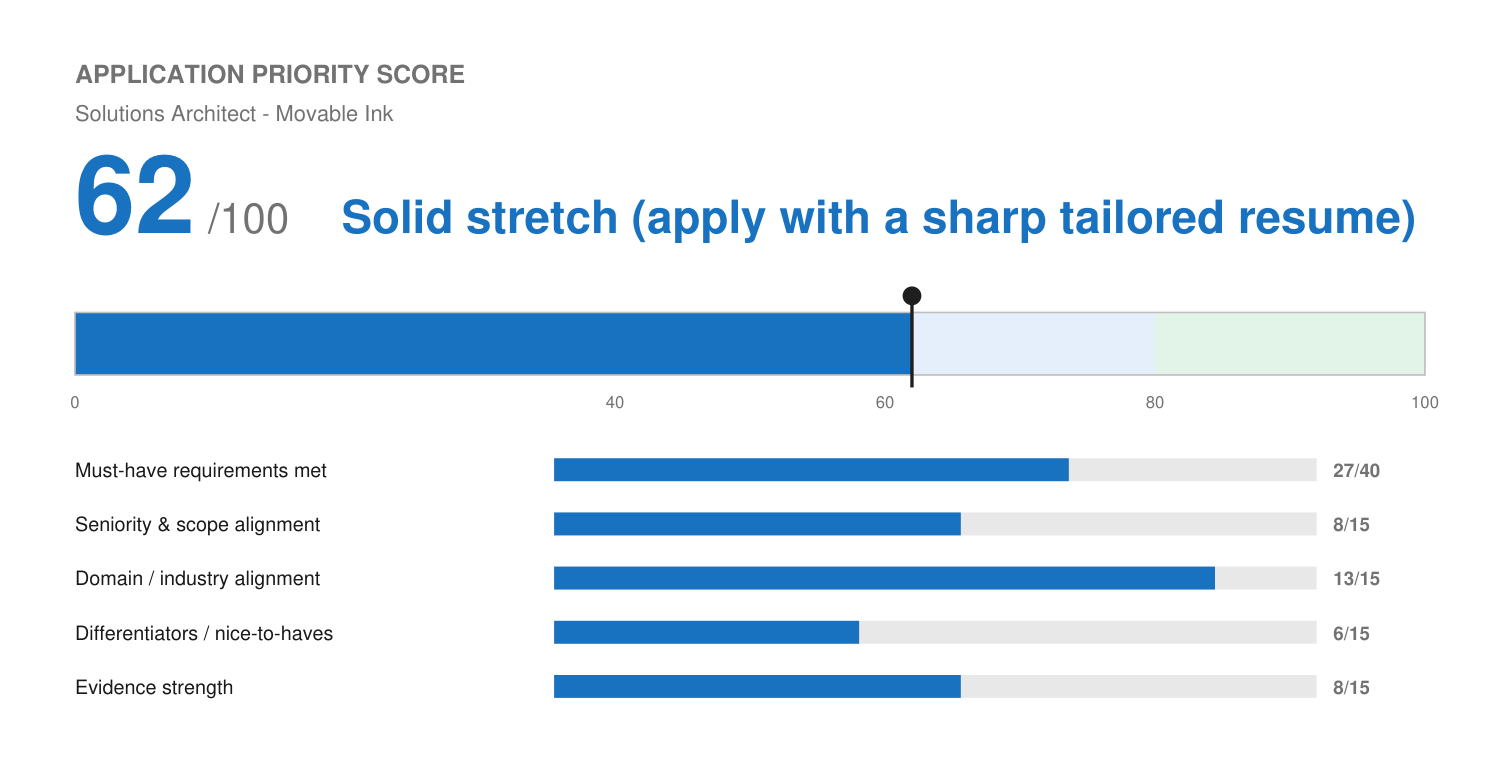
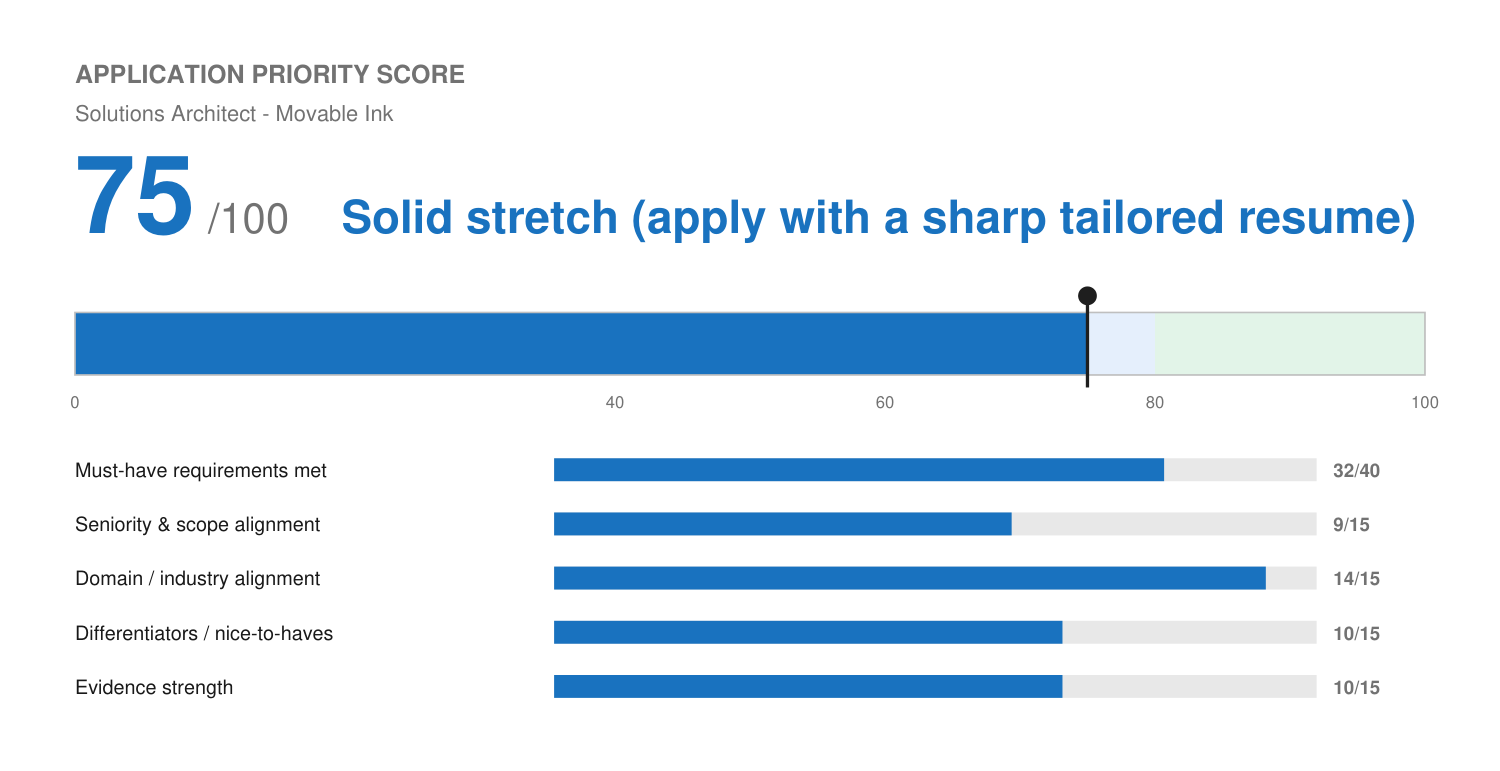
Rescore Movable Ink 62 -> 75 after confirming HTML/CSS and Marketo/Mailchimp
Josh confirmed real, hands-on HTML/CSS experience (own Solenzo site built
directly in HTML/CSS, GA4 tracking implementation on client sites) and ESP
experience with Marketo and Mailchimp. Updated resume, cover letter,
application answer, fit score, and match report accordingly. Score moved
from a Long-shot-adjacent 62 to a stronger Solid Stretch 75, still short of
80+ since JavaScript, formal data architectures, cloud data warehousing/ETL,
and the specific flagship ESPs this posting names most (Salesforce Marketing
Cloud, Braze, Iterable) remain real, unconfirmed gaps. Added HTML/CSS and
Marketo/Mailchimp as permanent master-profile facts.

Claude-Session: https://claude.ai/code/session_01WyTDmPmJhaMoZNuKsZg2t7

diff --git a/applications/movable-ink-solutions-architect/match-report.md b/applications/movable-ink-solutions-architect/match-report.md
@@ -14,8 +14,8 @@
 | :--- | :--- | :--- |
 | Remote - United States | Resume-evidenced — met | Josh is Colorado-based, remote |
 | Work authorization | Application-form requirement (needs Josh's input) | Not addressed in master profile; not raised as an issue |
-| Extensive experience with multiple enterprise ESPs (Salesforce Marketing Cloud, Braze, Iterable, Adobe Campaign, etc.) | Gap | Not in profile at all |
-| HTML, CSS, JavaScript, data architectures | Gap | No coding proficiency evidenced |
+| Extensive experience with multiple enterprise ESPs (Salesforce Marketing Cloud, Braze, Iterable, Adobe Campaign, etc.) | Resume-evidenced (partial) | Marketo (enterprise-tier) and Mailchimp (SMB-tier) confirmed hands-on; the specific big-name platforms listed (Salesforce Marketing Cloud, Braze, Iterable) are still not evidenced |
+| HTML, CSS, JavaScript, data architectures | Gap (partial) | HTML/CSS confirmed hands-on (own Solenzo site, client GA4 implementation); JavaScript and formal data-architecture experience still not evidenced |
 | 2+ years cloud data warehousing / data lakes / ETL | Gap | Not in profile |
 | 3+ years technical implementation/SA/TAM, preferably MarTech | Resume-evidenced (functional) | 15+ years; not literally titled "Solutions Architect" or "TAM" |
 | Compensation expectations | Needs candidate confirmation | Base $81K-$106K, OTE $97.3K-$127K; no target on file for this comp shape yet |
@@ -26,20 +26,22 @@ No hard knockout found. No score cap applied. The gaps below are real skill gaps
 
 ## Application Priority Score
 
-⚪ **62 / 100 — Solid stretch (apply with a sharp tailored resume)**
-`[████████████░░░░░░░░] 62%`
+⚪ **75 / 100 — Solid stretch (apply with a sharp tailored resume)**
+`[███████████████░░░░░] 75%`
 
 *Internal decision aid, not a prediction of Movable Ink's screening outcome.* See `fit.png`.
 
 | Dimension | Score | Max |
 | :--- | :---: | :---: |
-| Must-have requirements met | 27 | 40 |
-| Seniority & scope alignment | 8 | 15 |
-| Domain / industry alignment | 13 | 15 |
-| Differentiators / nice-to-haves | 6 | 15 |
-| Evidence strength | 8 | 15 |
+| Must-have requirements met | 32 | 40 |
+| Seniority & scope alignment | 9 | 15 |
+| Domain / industry alignment | 14 | 15 |
+| Differentiators / nice-to-haves | 10 | 15 |
+| Evidence strength | 10 | 15 |
 
-The honest shape of this one: domain alignment is genuinely strong, email/mobile marketing personalization and AI-driven decisioning is Josh's actual world. But the posting names three specific, checkable technical requirements he doesn't meet: enterprise ESP platform experience, HTML/CSS/JavaScript, and cloud data warehousing/ETL. Those pull Must-haves, Differentiators, and Evidence Strength down hard. This isn't a "framing" problem, it's a real skills gap, and the resume and cover letter name it directly rather than hope it goes unnoticed in a technical screen.
+**Rescored Sep 16, 2026 from 62 → 75** after Josh confirmed real HTML/CSS experience (his own Solenzo site is built directly in HTML/CSS, and he implements GA4 tracking in HTML/CSS on client sites) and hands-on ESP experience with Marketo and Mailchimp. This closes two of the three named technical gaps partially, HTML/CSS is now a genuine strength, and ESP experience is real though not in the specific flagship platforms (Salesforce Marketing Cloud, Braze, Iterable) this posting names most. JavaScript, formal data architectures, and cloud data warehousing/ETL remain true, unconfirmed gaps.
+
+Domain alignment stays the standout dimension: email/mobile marketing personalization and AI-driven decisioning is Josh's actual world, and Solenzo's digital-footprint scoring engine is close to a literal match for what Movable Ink sells.
 
 ---
 
@@ -49,10 +51,10 @@ The honest shape of this one: domain alignment is genuinely strong, email/mobile
 | :--- | :--- | :--- |
 | 3+ years technical implementation/SA/TAM, MarTech preferred | Strong (functional) | 15+ years across Accelo, Birdeye, Wix, Solenzo |
 | 3+ years consulting, influencing marketing strategy with technical solutions | Strong | Solenzo (fractional consulting), Accelo (CRM adoption advisory) |
-| Extensive experience with named enterprise ESPs | Gap | Not evidenced |
+| Extensive experience with named enterprise ESPs | Partial | Marketo and Mailchimp confirmed; Salesforce Marketing Cloud/Braze/Iterable specifically not evidenced |
 | API/tech-stack integration identification | Adjacent | Accelo: "workflow design and API integrations" |
 | Proven track record managing complex onboarding projects | Strong | Wix: 25+ clients/month, 120%/110% attainment; Accelo: sequenced implementation plans |
-| HTML, CSS, JavaScript, data architectures (Python a plus) | Gap | Not evidenced |
+| HTML, CSS, JavaScript, data architectures (Python a plus) | Partial | HTML/CSS confirmed (own site, client GA4 implementation); JavaScript and data architectures not evidenced |
 | 2+ years cloud data warehousing/data lakes/ETL | Gap | Not evidenced |
 | Problem-solving/troubleshooting | Strong | Accelo, Birdeye: direct technical troubleshooting bullets |
 | Digital marketing strategy understanding (email/mobile, personalization outcomes) | Strong | Entire career; Solenzo's personalization engine is a near-literal match |
@@ -65,13 +67,14 @@ The honest shape of this one: domain alignment is genuinely strong, email/mobile
 ## Top Strengths
 
 - Solenzo's digital-footprint scoring engine is close to a literal match for "data-activated content generation and AI decisioning," genuinely one of Josh's strongest single proof points across any application this session.
+- Real, hands-on HTML/CSS experience (own site, client GA4 implementation) closes what was the second-largest gap in the first draft of this application.
 - The JD's own language, "act as a universal translator" between business and technical, is close to verbatim to a real Solenzo bullet about translating stakeholder intent into structured technical output. Not forced, genuinely the same skill.
 - Wix's onboarding volume (25+/month, 120%/110% attainment) directly answers "proven track record of managing complex client onboarding projects."
 
 ## Gaps
 
-- No hands-on experience with any of the named enterprise ESPs (Salesforce Marketing Cloud, Oracle Responsys, Adobe Campaign/Journey Optimizer, Braze, Iterable, Bloomreach, etc.). This is the single largest gap in the posting, called out as "extensive experience with multiple."
-- No HTML, CSS, or JavaScript coding proficiency evidenced.
+- No hands-on experience with the specific flagship enterprise ESPs this posting names most (Salesforce Marketing Cloud, Braze, Iterable, Oracle Responsys, Adobe Campaign/Journey Optimizer, Bloomreach). Marketo and Mailchimp are real, confirmed ESP experience, but not a substitute for hands-on time in those specific platforms if a technical screen asks directly.
+- No JavaScript or formal data-architecture experience evidenced.
 - No cloud data warehousing, data lake, or ETL experience.
 - No production Python experience (listed as a plus, not a hard requirement).
 
@@ -79,7 +82,7 @@ The honest shape of this one: domain alignment is genuinely strong, email/mobile
 
 - Work authorization.
 - Compensation target against the posted base $81K-$106K / OTE $97.3K-$127K band.
-- Whether Josh has any informal or self-taught exposure to HTML/CSS, any of the named ESPs, or basic SQL/data-warehouse concepts not yet captured in the profile, if real, this would meaningfully change this match and is worth a direct ask before ruling it out.
+- Which employer(s) Marketo and Mailchimp were used at, useful for a sharper resume bullet and for interview prep.
 
 ## Metrics Needed
 

diff --git a/profile/master-profile.md b/profile/master-profile.md
@@ -256,6 +256,21 @@ operator talking, not like a candidate performing.
 > experience with all three. Exact employer/role attribution for each not yet captured,
 > ask Josh which role(s) before writing a role-specific bullet naming one of them; safe
 > to use in a role-agnostic competencies/tools list today.
+>
+> **Email service providers — Marketo and Mailchimp (confirmed by Josh, Sep 2026):** Josh
+> has hands-on ESP/marketing-automation-platform experience with Marketo (enterprise-tier,
+> comparable to Adobe Campaign/Journey Optimizer) and Mailchimp (SMB/mid-market tier).
+> Exact employer/role attribution not yet captured, ask before writing a role-specific
+> bullet. When a JD asks specifically for a different named enterprise ESP (Salesforce
+> Marketing Cloud, Braze, Iterable, Oracle Responsys, etc.), Marketo/Mailchimp are
+> genuine adjacent ESP-category experience, not a substitute for hands-on time in that
+> specific platform, keep that distinction honest.
+>
+> **HTML/CSS (confirmed by Josh, Sep 2026):** Josh's own Solenzo site is built directly
+> in HTML/CSS (not a no-code builder), and he works in HTML/CSS when implementing GA4
+> tracking on client sites. This is real, defensible hands-on HTML/CSS experience.
+> JavaScript and formal "data architectures" experience are NOT confirmed, do not claim
+> either without a separate confirmation.
 - Claim, set up, and optimize Google Business Profile listings (categories, descriptions, services, photos, posts) as the first deliverable in every client engagement, the foundation the rest of each client's local SEO and lead-flow program builds on.
 - Develop and execute full-lifecycle customer strategies spanning demand generation, sales CRM architecture, and customer success, demonstrating clear ROI and revenue growth.
 - Architect and deploy autonomous, AI-driven marketing systems for service-based businesses — largely on GoHighLevel — automating lead enrichment, outreach, and appointment booking.
@@ -408,8 +423,9 @@ operator talking, not like a candidate performing.
 | :--- | :--- |
 | CRM & Marketing Automation | GoHighLevel (primary) CRM & Automation Architecture, HubSpot, Salesforce, Workflow Design, Segmentation, Data Hygiene, Lifecycle Stages, Lead Routing, Zapier, Make, n8n |
 | Sales Engagement & Enrichment | Salesloft, ZoomInfo, Gong (confirmed hands-on, Sep 2026; role attribution to be captured), Pipeline Stage Tracking & Forecast Hygiene |
-| Growth & Demand Generation | Full-funnel acquisition, Lifecycle Marketing, CRO, A/B Testing, Paid Media, Paid Social (Meta Ads certified), SEO, Local SEO & Google Business Profile Management, Data-Aggregator/Listings Solutions, Email Marketing, Landing Pages |
+| Growth & Demand Generation | Full-funnel acquisition, Lifecycle Marketing, CRO, A/B Testing, Paid Media, Paid Social (Meta Ads certified), SEO, Local SEO & Google Business Profile Management, Data-Aggregator/Listings Solutions, Email Marketing (Marketo, Mailchimp), Landing Pages |
 | Analytics & Reporting | GA4, Google Search Console, Google Tag Manager, Ahrefs, Semrush, Campaign Attribution, ROI Dashboards, QBRs, KPI Tracking |
+| Web Technical | HTML/CSS (hands-on, own Solenzo site + client GA4 implementation) |
 | AI & Automation | Agentic AI, Multi-agent orchestration, LLM workflows, ChatGPT, Claude, Prompt Design, Requirements-to-Prompt Translation, Stakeholder Elicitation, Rapid Prototyping |
 | Customer Success | Onboarding Strategy, Churn Prevention, Time-to-Value Reduction, NPS, Retention, Upsell Identification, Success Plans |
 | Sales & Account Management | Full-cycle Sales, Pipeline Management, Pipeline Stage Tracking & Forecast Hygiene, C-Suite Relationship Building, Strategic Advisory, Account Expansion |

diff --git a/applications/movable-ink-solutions-architect/application-answers.md b/applications/movable-ink-solutions-architect/application-answers.md
@@ -5,22 +5,23 @@
 Movable Ink's pitch, content personalization and AI decisioning that makes email and
 mobile programs feel individually built, sits squarely in territory I already work in.
 At Solenzo, I built a digital-footprint scoring engine that personalizes outreach off
-real signal instead of a static list, and a full automation system spanning lead capture
-through close. I've spent 15 years on the technical-implementation side of marketing
-technology: selling and scoping a CRM/PSA platform itself at Accelo, guiding client
-onboarding and API integrations as a trusted technical advisor, and translating business
-intent into working technical configuration, the "universal translator" function this
-role is built around.
+real signal instead of a static list, on a site I built directly in HTML/CSS, and a full
+automation system spanning lead capture through close. I've spent 15 years on the
+technical-implementation side of marketing technology: selling and scoping a CRM/PSA
+platform itself at Accelo, guiding client onboarding and API integrations as a trusted
+technical advisor, and translating business intent into working technical configuration,
+the "universal translator" function this role is built around.
 
-I also want to be direct about fit, since I'd rather say it here than have it surface
-later: I haven't worked hands-on inside an enterprise ESP like Salesforce Marketing
-Cloud, Braze, or Iterable, and I don't have production experience with HTML, CSS,
-JavaScript, or cloud data warehousing. What I do have is a track record of ramping on
+My ESP experience spans Marketo and Mailchimp, and I work directly in HTML/CSS
+implementing GA4 tracking on client sites, hands-on technical work, not campaign
+strategy from the outside. I also want to be direct about where my background doesn't
+line up cleanly: I haven't worked inside the specific enterprise ESPs this role names,
+like Salesforce Marketing Cloud, Braze, or Iterable, and I don't have JavaScript or
+cloud data warehousing experience. What I do have is a track record of ramping on
 complex SaaS platforms quickly, at Wix I onboarded and launched 25+ clients a month
 while holding 120% of sales and 110% of implementation targets, and real, current,
 hands-on AI/ML systems-building experience, which this role names explicitly as a
-requirement. I'd be learning your specific platform stack, not the underlying
-discipline of technical client implementation.
+requirement.
 
 ---
 
